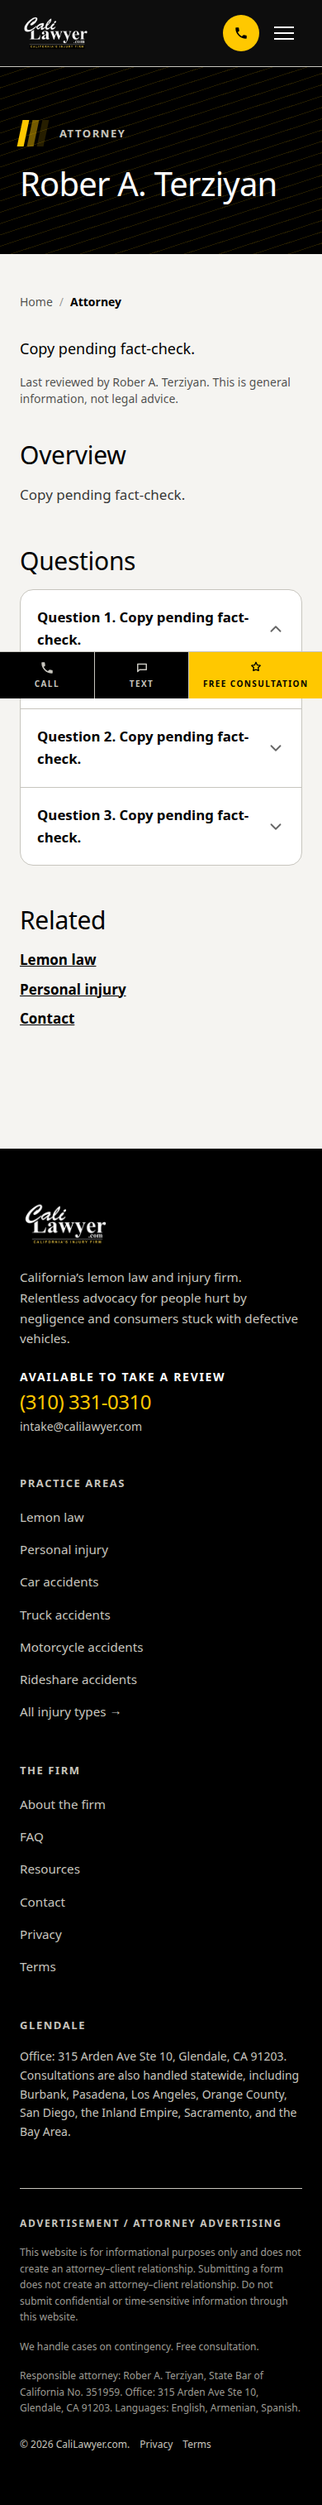
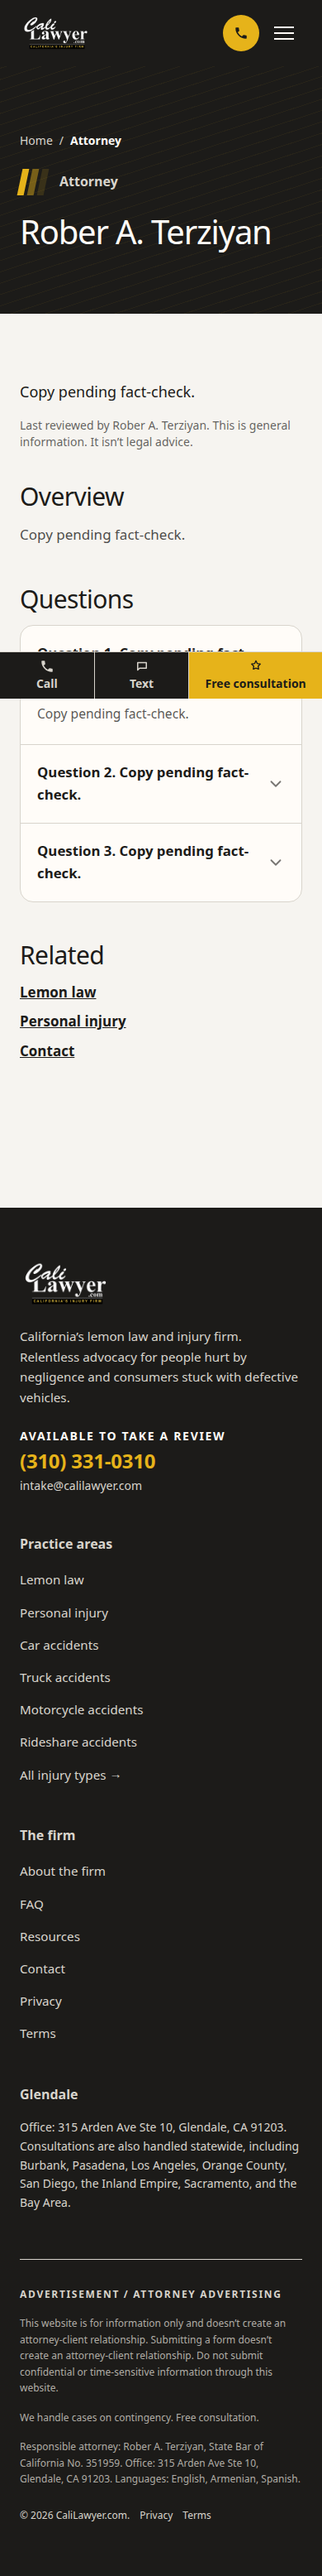
Write the answer pages in the same plain style.
Match the answer-page layout to the rest of the site and tighten llms.txt.

diff --git a/src/components/AnswerPage.tsx b/src/components/AnswerPage.tsx
@@ -1,6 +1,6 @@
 import Link from "next/link";
 import { Accordion } from "@/components/Accordion";
-import { BreadcrumbTrail, type Crumb } from "@/components/BreadcrumbTrail";
+import type { Crumb } from "@/components/BreadcrumbTrail";
 import { JsonLd } from "@/components/JsonLd";
 import { PageHero } from "@/components/PageHero";
 import type { GeoPage } from "@/lib/content/geo/types";
@@ -36,20 +36,19 @@ export function AnswerPage({ page }: { page: GeoPage }) {
           })}
         />
       ) : null}
-      <PageHero eyebrow={page.eyebrow} title={page.h1} />
+      <PageHero eyebrow={page.eyebrow} title={page.h1} crumbs={crumbs} />
       <article className="bg-paper">
-        <div className="container-site max-w-3xl py-12 md:py-16">
-          <BreadcrumbTrail items={crumbs} />
-          <p className="mt-8 text-lg leading-relaxed text-ink">{page.answer}</p>
+        <div className="container-site max-w-3xl py-20 md:py-32">
+          <p className="text-lg leading-relaxed text-ink">{page.answer}</p>
           <p className="mt-4 text-sm text-ink/70">
-            Last reviewed by {ATTORNEY.name}. This is general information, not legal
-            advice.
+            Last reviewed by {ATTORNEY.name}. This is general information. It isn’t
+            legal advice.
           </p>
 
           {page.table ? (
             <div className="mt-10 overflow-x-auto">
               <table className="w-full min-w-[36rem] border-collapse text-left text-sm">
-                <caption className="mb-3 text-left font-display text-2xl text-ink">
+                <caption className="h-card mb-3 text-left text-ink">
                   {page.table.caption}
                 </caption>
                 <thead>
@@ -78,7 +77,7 @@ export function AnswerPage({ page }: { page: GeoPage }) {
 
           {page.sections.map((section) => (
             <section key={section.heading} className="mt-10">
-              <h2 className="font-display text-3xl text-ink">{section.heading}</h2>
+              <h2 className="h-section text-ink">{section.heading}</h2>
               {section.paragraphs?.map((paragraph, index) => (
                 <p key={index} className="mt-4 leading-relaxed text-ink/80">
                   {paragraph}
@@ -96,7 +95,7 @@ export function AnswerPage({ page }: { page: GeoPage }) {
 
           {page.citations.length > 0 ? (
             <section className="mt-10">
-              <h2 className="font-display text-3xl text-ink">Sources</h2>
+              <h2 className="h-section text-ink">Sources</h2>
               <ul className="mt-4 space-y-2">
                 {page.citations.map((cite) => (
                   <li key={cite.href}>
@@ -115,7 +114,7 @@ export function AnswerPage({ page }: { page: GeoPage }) {
 
           {page.faqs.length > 0 ? (
             <section className="mt-12">
-              <h2 className="font-display text-3xl text-ink">Questions</h2>
+              <h2 className="h-section text-ink">Questions</h2>
               <div className="mt-4">
                 <Accordion items={page.faqs} />
               </div>
@@ -124,7 +123,7 @@ export function AnswerPage({ page }: { page: GeoPage }) {
 
           {page.related.length > 0 ? (
             <section className="mt-12">
-              <h2 className="font-display text-3xl text-ink">Related</h2>
+              <h2 className="h-section text-ink">Related</h2>
               <ul className="mt-4 space-y-2">
                 {page.related.map((link) => (
                   <li key={link.href}>

diff --git a/README.md b/README.md
@@ -1,8 +1,7 @@
-# CaliLawyer — marketing site
+# CaliLawyer.com marketing site
 
-Static marketing site for a California law firm with two practice areas:
-**personal injury** and **lemon law**. It is the credible umbrella brand that
-segments injury victims and frustrated vehicle owners into two funnels.
+Static marketing site for a California law firm. Two practices: personal
+injury and lemon law.
 
 Built with **Next.js 15** (App Router) + **TypeScript** + **Tailwind v4**,
 statically exported. No backend, CMS, auth, or database. The earlier Vite /
@@ -48,7 +47,7 @@ Colors, fonts, radii, motion, and spacing are tokens in `src/app/globals.css`.
 Components reference tokens only.
 
 - **Colors:** ink, charcoal, bone, paper, gold, white.
-- **Type:** Hanken Grotesk (body), Fraunces (display), JetBrains Mono (figures).
+- **Type:** Hanken Grotesk (body and figures), Fraunces (display). Figures use tabular numbers.
 - **Accessibility (WCAG 2.2 AA):** gold is not body text on light grounds;
   bone is text on dark grounds; 3px focus rings (ink on light, gold on dark)
   stay in place; motion honors `prefers-reduced-motion`.
